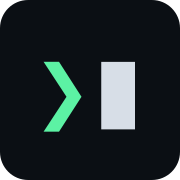
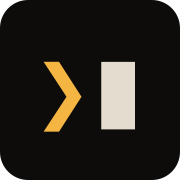
feat(design): amber-phosphor palette on warm graphite (ADR-0011 amendment)
Michael judged the green-on-blue-black palette too close to HackerRank's. The accent
is now VT220 amber (#f5b543) on warm graphite (#0d0c0a); the soft green becomes the
secondary token, renamed --amber -> --accent-2 (updated markers, callouts, drafts).
Light "paper" theme adjusted to match. Favicon, touch icon, preview image, feed
stylesheet and theme-color updated. Contrast tests pass in both themes.

Requirements: FE-10, FE-11, FE-12. Docs: 03-frontend.md, DESIGN.md §9, ADR-0011 amendment.

Changed region(s): [[0.2222, 0.3333, 0.4722, 0.75]]

diff --git a/src/styles/tokens.css b/src/styles/tokens.css
@@ -4,36 +4,36 @@
 :root,
 [data-theme='dark'] {
   color-scheme: dark;
-  --bg: #0b0f14;
-  --bg-elev: #111821;
-  --bg-inset: #0e1319;
-  --fg: #d7dee7;
-  --fg-muted: #8a97a6;
-  --fg-faint: #5c6876;
-  --accent: #5cf2a4;
-  --accent-dim: #2fbf7a;
-  --amber: #f2c14e;
+  --bg: #0d0c0a;
+  --bg-elev: #16140f;
+  --bg-inset: #110f0b;
+  --fg: #e4ddcf;
+  --fg-muted: #9d9380;
+  --fg-faint: #6b6252;
+  --accent: #f5b543;
+  --accent-dim: #c48a2a;
+  --accent-2: #8fd3a0;
   --danger: #ff6b6b;
-  --line: #1f2a36;
-  --line-strong: #2d3a48;
-  --selection: rgba(92, 242, 164, 0.25);
+  --line: #2a2620;
+  --line-strong: #3b352c;
+  --selection: rgba(245, 181, 67, 0.25);
 }
 
 [data-theme='light'] {
   color-scheme: light;
-  --bg: #f6f5f0;
+  --bg: #f7f4ec;
   --bg-elev: #ffffff;
-  --bg-inset: #eeede6;
-  --fg: #1b2129;
-  --fg-muted: #525d69;
-  --fg-faint: #7d8793;
-  --accent: #0a6b3f;
-  --accent-dim: #3f9a6c;
-  --amber: #8a5f00;
+  --bg-inset: #efeadf;
+  --fg: #1f1b14;
+  --fg-muted: #5c5546;
+  --fg-faint: #847b6a;
+  --accent: #8a5a00;
+  --accent-dim: #b07a1e;
+  --accent-2: #0a6b3f;
   --danger: #b42318;
-  --line: #d9d7cf;
-  --line-strong: #c3c1b8;
-  --selection: rgba(10, 107, 63, 0.18);
+  --line: #dcd6c8;
+  --line-strong: #c5bda9;
+  --selection: rgba(138, 90, 0, 0.18);
 }
 
 :root {

diff --git a/tests/tokens.test.ts b/tests/tokens.test.ts
@@ -31,13 +31,13 @@ const themes = {
 
 describe.each(Object.entries(themes))('%s theme', (_name, t) => {
   it('has every colour token', () => {
-    for (const k of ['bg', 'bg-elev', 'bg-inset', 'fg', 'fg-muted', 'fg-faint', 'accent', 'accent-dim', 'amber', 'danger', 'line', 'line-strong'])
+    for (const k of ['bg', 'bg-elev', 'bg-inset', 'fg', 'fg-muted', 'fg-faint', 'accent', 'accent-dim', 'accent-2', 'danger', 'line', 'line-strong'])
       expect(t[k], k).toMatch(/^#[0-9a-f]{6}$/);
   });
   it('body text on background ≥ 7:1', () => expect(contrast(t['fg']!, t['bg']!)).toBeGreaterThanOrEqual(7));
   it('muted text on background ≥ 4.5:1', () => expect(contrast(t['fg-muted']!, t['bg']!)).toBeGreaterThanOrEqual(4.5));
   it('accent on background ≥ 4.5:1', () => expect(contrast(t['accent']!, t['bg']!)).toBeGreaterThanOrEqual(4.5));
-  it('amber on background ≥ 4.5:1', () => expect(contrast(t['amber']!, t['bg']!)).toBeGreaterThanOrEqual(4.5));
+  it('secondary accent on background ≥ 4.5:1', () => expect(contrast(t['accent-2']!, t['bg']!)).toBeGreaterThanOrEqual(4.5));
   it('body text on elevated and inset surfaces ≥ 7:1', () => {
     expect(contrast(t['fg']!, t['bg-elev']!)).toBeGreaterThanOrEqual(7);
     expect(contrast(t['fg']!, t['bg-inset']!)).toBeGreaterThanOrEqual(7);

diff --git a/src/styles/global.css b/src/styles/global.css
@@ -139,8 +139,8 @@ pre {
 .meta .k {
   color: var(--fg-faint);
 }
-.meta .amber {
-  color: var(--amber);
+.meta .alt {
+  color: var(--accent-2);
 }
 
 /* the mono prompt glyph */

diff --git a/docs/requirements/03-frontend.md b/docs/requirements/03-frontend.md
@@ -44,26 +44,26 @@ public/
 
 ## Design system — "restrained terminal"
 
-The aesthetic is cyberpunk/hacker in mood and professional in execution. The reader is a hiring manager at a top-tier firm; the design must read as *precise*, not *themed*. The rule for any visual decision: if it would look at home in a well-made terminal emulator or a monospace code editor, it is in; if it would look at home on a gaming peripheral's box, it is out.
+The aesthetic is cyberpunk/hacker in mood — specifically the amber-phosphor terminal — and professional in execution. The reader is a hiring manager at a top-tier firm; the design must read as *precise*, not *themed*. The rule for any visual decision: if it would look at home in a well-made terminal emulator or a monospace code editor, it is in; if it would look at home on a gaming peripheral's box, it is out.
 
-**FE-10** Colour tokens, dark theme (default). Values are the starting point; any change MUST keep the contrast ratios in FE-12.
+**FE-10** Colour tokens, dark theme (default). Revised 2026-11-03 after Michael's review: the accent moved from phosphor green to VT220 amber on a warm graphite, because blue-black plus saturated green read as HackerRank's palette; the soft green became the secondary (`--accent-2`, formerly `--amber`). Any change MUST keep the contrast ratios in FE-12.
 
 ```css
 :root, [data-theme="dark"] {
   color-scheme: dark;
-  --bg:          #0b0f14;   /* near-black blue; never #000 */
-  --bg-elev:     #111821;   /* cards, header */
-  --bg-inset:    #0e1319;   /* code blocks, inset panels */
-  --fg:          #d7dee7;   /* body text */
-  --fg-muted:    #8a97a6;   /* metadata, secondary */
-  --fg-faint:    #5c6876;   /* decorative glyphs, disabled */
-  --accent:      #5cf2a4;   /* phosphor green: links on hover, focus, current item, cursor */
-  --accent-dim:  #2fbf7a;   /* link underlines, borders that carry meaning */
-  --amber:       #f2c14e;   /* the only secondary colour: callouts, "updated" markers */
+  --bg:          #0d0c0a;   /* warm graphite; never #000 */
+  --bg-elev:     #16140f;   /* cards, header */
+  --bg-inset:    #110f0b;   /* code blocks, inset panels */
+  --fg:          #e4ddcf;   /* body text */
+  --fg-muted:    #9d9380;   /* metadata, secondary */
+  --fg-faint:    #6b6252;   /* decorative glyphs, disabled */
+  --accent:      #f5b543;   /* amber phosphor (VT220): links on hover, focus, current item, cursor */
+  --accent-dim:  #c48a2a;   /* link underlines, borders that carry meaning */
+  --accent-2:    #8fd3a0;   /* the only secondary colour: "updated" markers, callouts, drafts */
   --danger:      #ff6b6b;   /* error states only (404, build-time warnings) */
-  --line:        #1f2a36;   /* hairlines */
-  --line-strong: #2d3a48;
-  --selection:   rgba(92, 242, 164, 0.25);
+  --line:        #2a2620;   /* hairlines */
+  --line-strong: #3b352c;
+  --selection:   rgba(245, 181, 67, 0.25);
 }
 ```
 
@@ -72,23 +72,23 @@ The aesthetic is cyberpunk/hacker in mood and professional in execution. The rea
 ```css
 [data-theme="light"] {
   color-scheme: light;
-  --bg:          #f6f5f0;
+  --bg:          #f7f4ec;
   --bg-elev:     #ffffff;
-  --bg-inset:    #eeede6;
-  --fg:          #1b2129;
-  --fg-muted:    #525d69;
-  --fg-faint:    #7d8793;
-  --accent:      #0a6b3f;
-  --accent-dim:  #3f9a6c;
-  --amber:       #8a5f00;
+  --bg-inset:    #efeadf;
+  --fg:          #1f1b14;
+  --fg-muted:    #5c5546;
+  --fg-faint:    #847b6a;
+  --accent:      #8a5a00;
+  --accent-dim:  #b07a1e;
+  --accent-2:    #0a6b3f;
   --danger:      #b42318;
-  --line:        #d9d7cf;
-  --line-strong: #c3c1b8;
-  --selection:   rgba(10, 107, 63, 0.18);
+  --line:        #dcd6c8;
+  --line-strong: #c5bda9;
+  --selection:   rgba(138, 90, 0, 0.18);
 }
 ```
 
-**FE-12** Contrast: `--fg` on `--bg` ≥ 7:1 in both themes; `--fg-muted` on `--bg` ≥ 4.5:1; `--accent` and `--amber` on `--bg` ≥ 4.5:1 wherever they carry text; `--fg-faint` is never used for text that conveys information. A unit test (`tests/tokens.test.ts`) parses `tokens.css` and asserts these ratios so a token tweak cannot silently fail accessibility.
+**FE-12** Contrast: `--fg` on `--bg` ≥ 7:1 in both themes; `--fg-muted` on `--bg` ≥ 4.5:1; `--accent` and `--accent-2` on `--bg` ≥ 4.5:1 wherever they carry text; `--fg-faint` is never used for text that conveys information. A unit test (`tests/tokens.test.ts`) parses `tokens.css` and asserts these ratios so a token tweak cannot silently fail accessibility.
 
 **FE-13** Typography. Two families, self-hosted, latin subset, woff2, weights 400 and 600 only, four files, ≤ 120 KB total, `font-display: swap`, the two above-the-fold files preloaded:
 
@@ -155,9 +155,9 @@ Lighthouse categories Performance, Accessibility, Best Practices, SEO MUST each 
 
 Below the fold: *Selected writing* — posts with `featured: true` (max 3), else the three newest; each as `PostCard` (date, title, description, pillar). Phase 2 adds *Now* (first 240 characters of the newest entry, link) and *Selected projects* (featured projects). Footer.
 
-**FE-41** Post `/posts/[id]/`: `h1` title; `PostMeta` line (date, pillar badge, reading time, `updated` in `--amber` if `updatedDate` present); `Callout` with `note2026` if present; hero image via `<Image>` with `heroAlt` if present (max width = measure, `loading="eager"` since above the fold); body inside `Prose`; `TagList`; a one-line footer "Michael Johnson · Lessons Distilled"; Phase 3: comments slot. No previous/next navigation at MVP; no share buttons ever.
+**FE-41** Post `/posts/[id]/`: `h1` title; `PostMeta` line (date, pillar badge, reading time, `updated` in `--accent-2` if `updatedDate` present); `Callout` with `note2026` if present; hero image via `<Image>` with `heroAlt` if present (max width = measure, `loading="eager"` since above the fold); body inside `Prose`; `TagList`; a one-line footer "Michael Johnson · Lessons Distilled"; Phase 3: comments slot. No previous/next navigation at MVP; no share buttons ever.
 
-**FE-42** Writing index `/posts/`: `h1` "Lessons Distilled" with the tagline "Lessons learned from building things" beneath in mono; posts grouped under `h2` year headings, newest first; each item: date (mono), title (link), description, pillar badge. Drafts show a `draft` badge in `--amber` on dev builds. Phase 2 MAY add a pillar filter as plain links to `/tags/`-style pillar pages (no JavaScript).
+**FE-42** Writing index `/posts/`: `h1` "Lessons Distilled" with the tagline "Lessons learned from building things" beneath in mono; posts grouped under `h2` year headings, newest first; each item: date (mono), title (link), description, pillar badge. Drafts show a `draft` badge in `--accent-2` on dev builds. Phase 2 MAY add a pillar filter as plain links to `/tags/`-style pillar pages (no JavaScript).
 
 **FE-43** About `/about/`: renders `pages/about.md` inside `Prose`; the `## Contact` heading MUST have `id="contact"` (Astro's default heading ids will produce `contact`; assert it in a test). Profile links come from `resume.json`.
 

diff --git a/docs/DESIGN.md b/docs/DESIGN.md
@@ -259,7 +259,7 @@ This is a reading site, so typography carries the design and everything else sta
 
 ### Aesthetic direction (added 24 Oct 2026)
 
-Michael's preference is cyberpunk and hacker aesthetics. The site adopts a **restrained terminal** version of it: dark theme by default on a near-black blue rather than pure black, IBM Plex Mono for headings, navigation, metadata and code, IBM Plex Sans for body text, and a single phosphor-green accent with amber as the only secondary colour. Terminal idioms carry the mood: prompt markers on section headings, a blinking cursor in the home hero (off under `prefers-reduced-motion`), box-drawing rules, and metadata lines set like key=value pairs. The light theme is a deliberate "paper" mode, not an afterthought.
+Michael's preference is cyberpunk and hacker aesthetics. The site adopts a **restrained terminal** version of it: dark theme by default on a near-black blue rather than pure black, IBM Plex Mono for headings, navigation, metadata and code, IBM Plex Sans for body text, and a single phosphor accent with one secondary colour. (Revised 3 Nov 2026: the accent is VT220 amber on warm graphite, the secondary a soft green — the original green-on-blue-black read as HackerRank's palette; ADR-0011 amendment.) Terminal idioms carry the mood: prompt markers on section headings, a blinking cursor in the home hero (off under `prefers-reduced-motion`), box-drawing rules, and metadata lines set like key=value pairs. The light theme is a deliberate "paper" mode, not an afterthought.
 
 The restraint is for the reader in section 2, not against the aesthetic: neon glows, gradients, glitch and scanline animations and Matrix-style effects read as hobbyist to a hiring manager at the firms Michael is targeting and cost performance and legibility. The full token set, type scale and the list of permitted and forbidden motifs are in `docs/requirements/03-frontend.md` in the site repository (decision V1).
 

diff --git a/CLAUDE.md b/CLAUDE.md
@@ -31,7 +31,7 @@ This repository (`Mika-net/Mika-netv2`, public) is Michael Johnson's personal si
 - Conventional Commits with requirement IDs in the body (`feat(resume): render /resume/ from resume.json (RES-06, RES-07)`).
 - Every PR description lists the requirement IDs it covers and any it defers, with a reason.
 - Prefer the smallest dependency; justify every new one in one line.
-- When the `frontend-design` skill is available, load it before the first visual pass with `docs/requirements/03-frontend.md` as the brief. The aesthetic is "restrained terminal": dark-first, IBM Plex Mono headings, one phosphor-green accent, no glow, no gradients, no glitch.
+- When the `frontend-design` skill is available, load it before the first visual pass with `docs/requirements/03-frontend.md` as the brief. The aesthetic is "restrained terminal": dark-first on warm graphite, IBM Plex Mono headings, one amber-phosphor accent (VT220) with a soft green secondary, no glow, no gradients, no glitch.
 - Verify before claiming done: run the acceptance criteria in the requirement file and paste the evidence (command output, Lighthouse scores, screenshots) in the PR.
 
 ## State of the code (2026-10-25)

diff --git a/docs/adr/0011-restrained-cyberpunk-aesthetic.md b/docs/adr/0011-restrained-cyberpunk-aesthetic.md
@@ -19,3 +19,7 @@ Dark-first on a near-black blue (never `#000`), IBM Plex Mono for headings, navi
 ## Consequences
 
 The mood is unmistakable without any single element being loud. Contrast ratios are tested in CI, so taste changes cannot break accessibility.
+
+## Amendment — 2026-11-03
+
+After reviewing the prototype Michael judged the blue-black + phosphor-green palette too close to HackerRank's. The accent moved to VT220 amber (`#f5b543`) on a warm graphite (`#0d0c0a`), with the soft green demoted to the secondary token (`--accent-2`). Everything else in this decision stands. Token values are in `docs/requirements/03-frontend.md` FE-10/FE-11.
